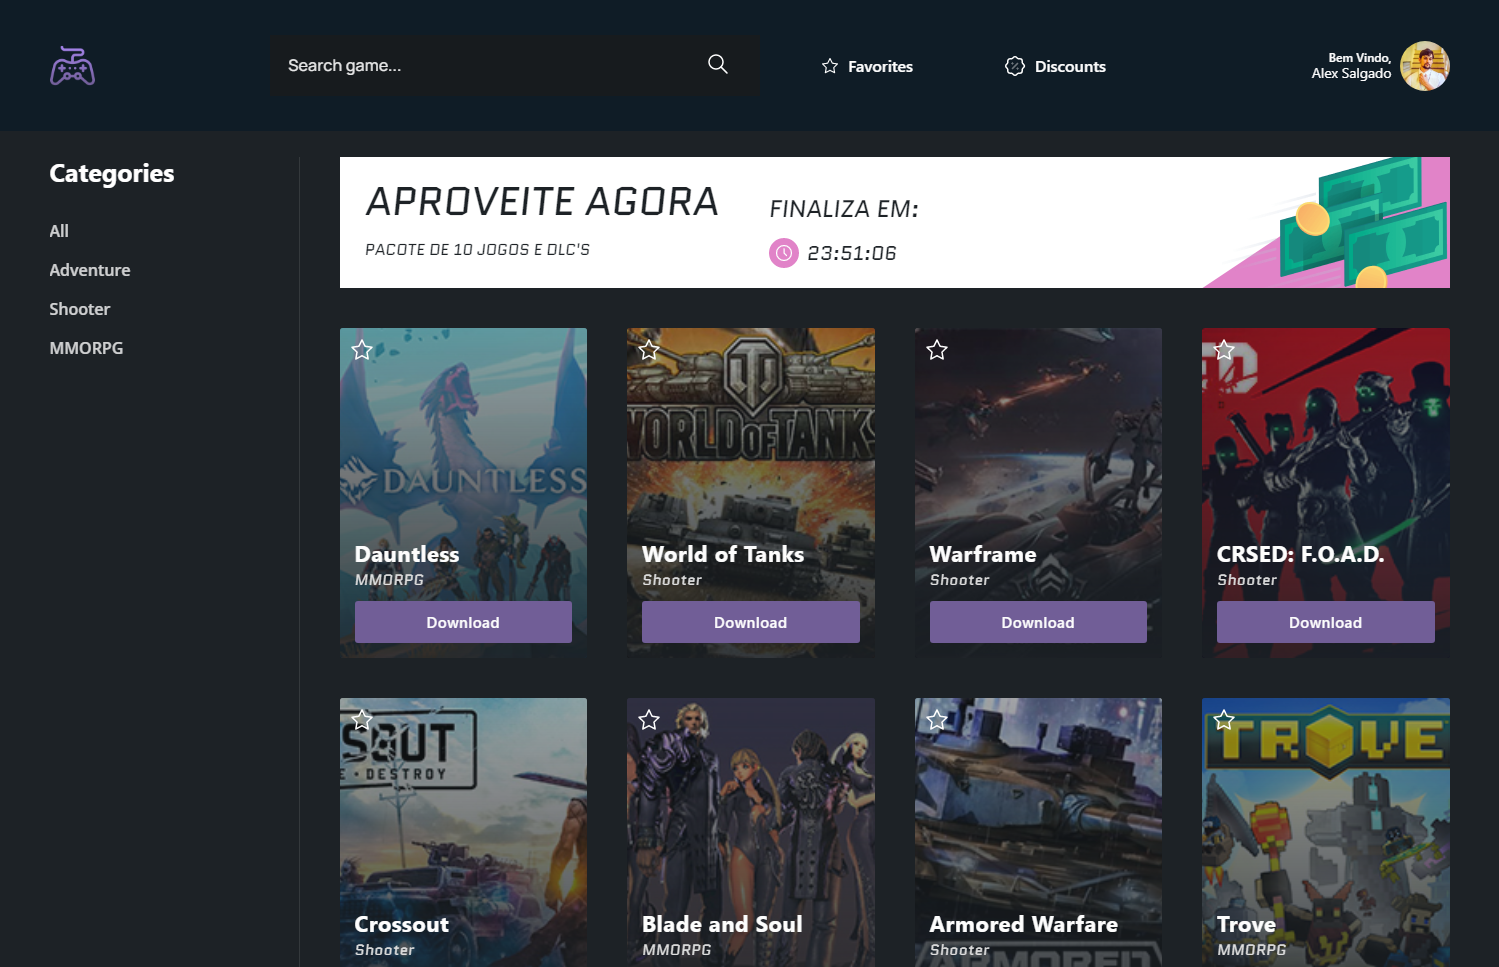
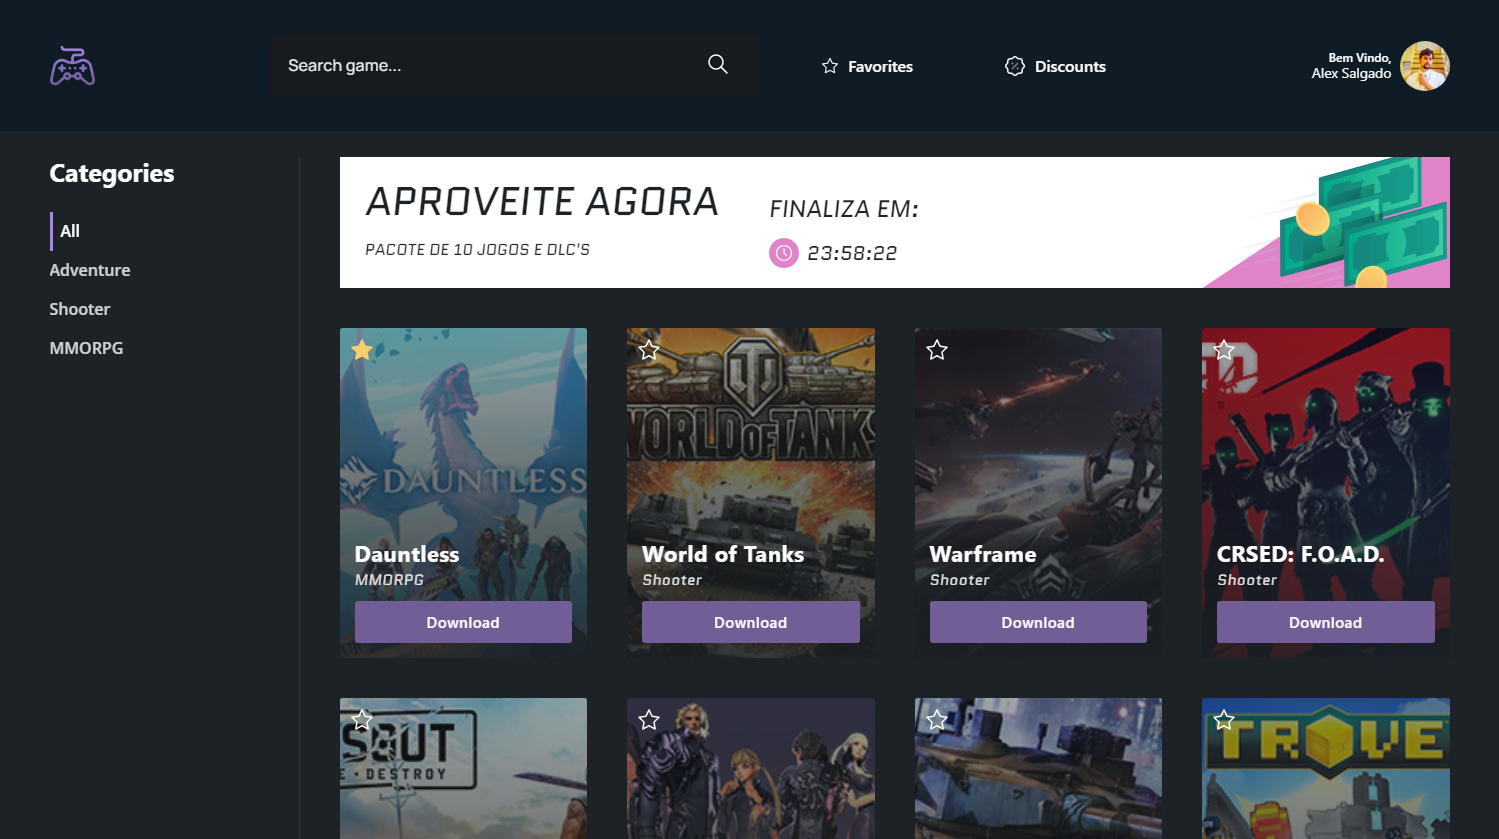
new readme photo favorite toggle

diff --git a/src/components/Card.js b/src/components/Card.js
@@ -1,13 +1,16 @@
-import React, {useState} from 'react'
+import React, { useState } from 'react'
 
 
 import { ReactComponent as Star } from '../assets/icons/Star.svg'
 
 
 function Card({ item }) {
+  const [favorite, SetFavorite] = useState(false)
   return (
     <div className="game">
-      <Star className="game__favorite" />
+      {/* While api doesn't have a favorite field */}
+      <Star className={favorite || item.id === 1 ? 'game__favorite favorite' : 'game__favorite'} onClick={() => { SetFavorite(!favorite) }} />
+      {/* <Star className={favorite ? 'game__favorite favorite' : 'game__favorite'} onClick={() => { SetFavorite(!favorite) }} /> */}
       <img src={item.thumbnail} alt="Game name" className="game__img" />
       <div className="game__overlay"></div>
       <p className="game__title">{item.title}</p>

diff --git a/src/components/Sidebar.js b/src/components/Sidebar.js
@@ -8,7 +8,7 @@ function Sidebar() {
         <div className="sidebox">
           <h3>Categories</h3>
           <nav className="sidebox_list">
-            <button className="sidebox_list__item">All</button>
+            <button className="sidebox_list__item active">All</button>
             <button className="sidebox_list__item">Adventure</button>
             <button className="sidebox_list__item">Shooter</button>
             <button className="sidebox_list__item">MMORPG</button>
